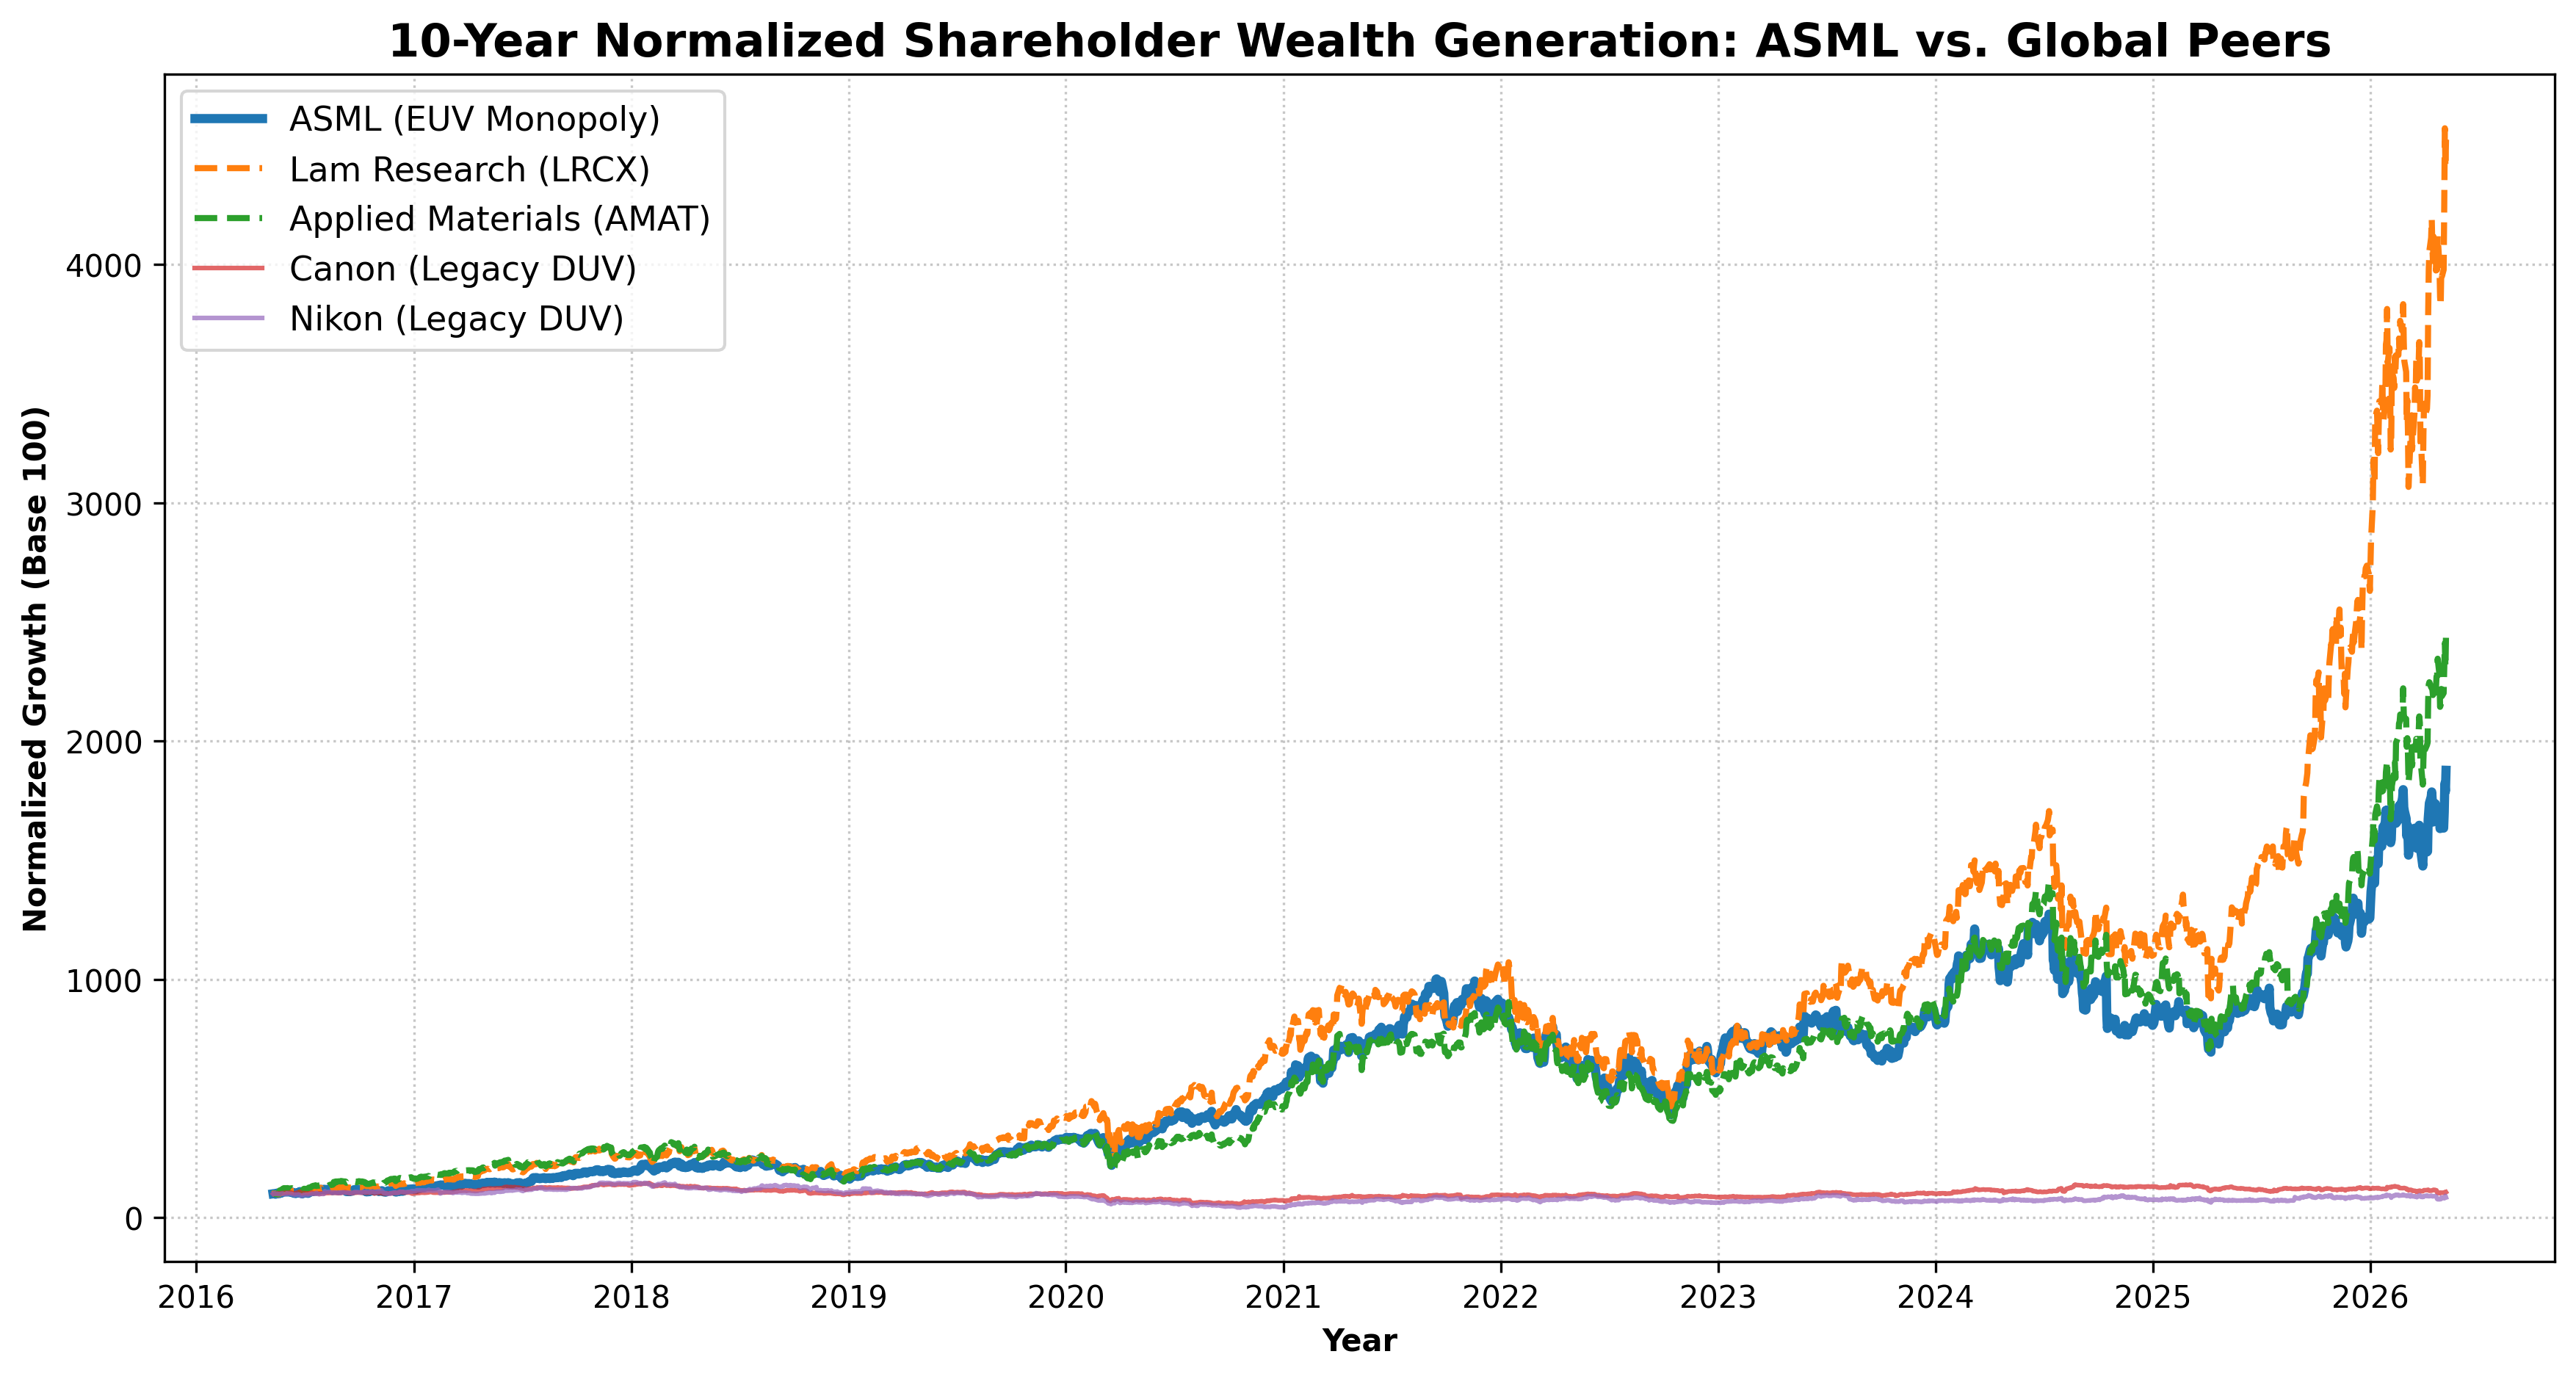
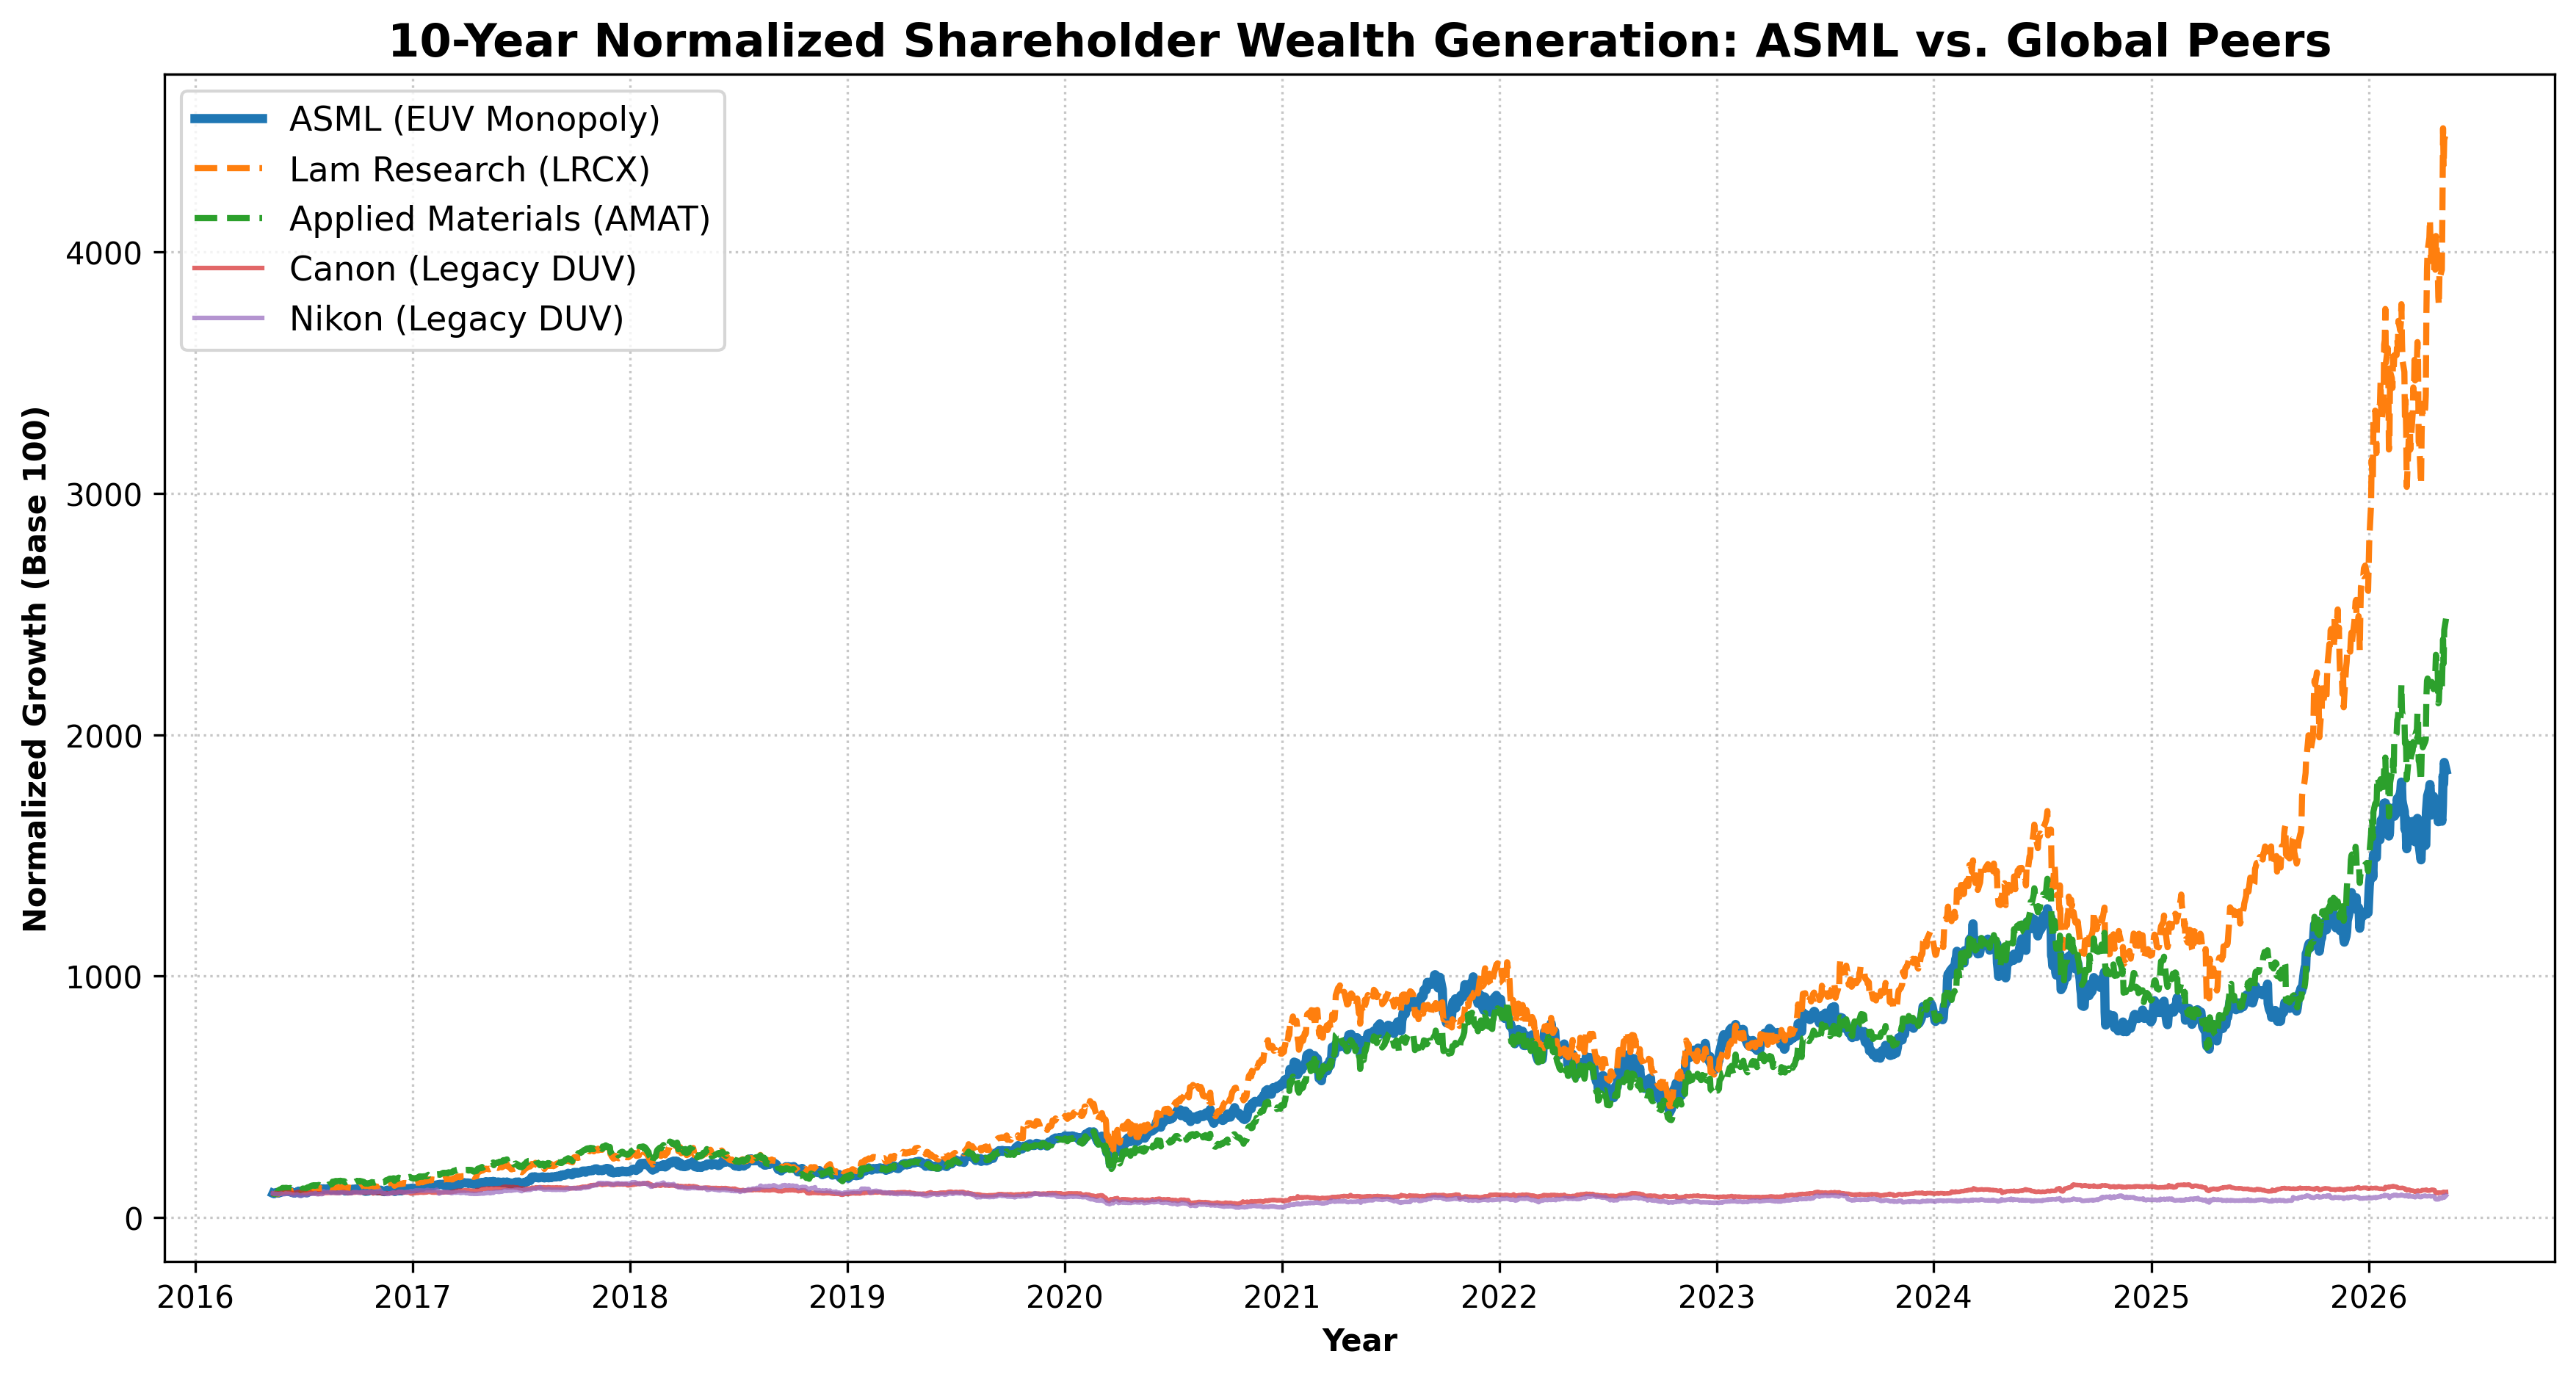
adding final changes

diff --git a/09_competitor_analysis.py b/09_competitor_analysis.py
@@ -45,11 +45,14 @@ print(f"Success! Competitor Growth graph saved to {save_path_1}")
 labels = ['ASML (Netherlands)', 'Nikon (Japan)', 'Canon (Japan)', 'Others']
 sizes = [82.5, 10.2, 6.1, 1.2]
 colors = ['#1f77b4', '#d62728', '#ff7f0e', '#7f7f7f']
-explode = (0.05, 0, 0, 0)  # slightly explode the ASML slice
 
 plt.figure(figsize=(9, 9))
-plt.pie(sizes, explode=explode, labels=labels, colors=colors, autopct='%1.1f%%',
-        shadow=True, startangle=140, textprops={'fontsize': 12, 'fontweight': 'bold'})
+
+# FIX: Removed 'explode', changed 'shadow' to False, and added a white border (wedgeprops)
+plt.pie(sizes, labels=labels, colors=colors, autopct='%1.1f%%',
+        shadow=False, startangle=140,
+        wedgeprops={'edgecolor': 'white', 'linewidth': 2},
+        textprops={'fontsize': 12, 'fontweight': 'bold'})
 
 # Draw the center circle to turn the pie chart into a professional Donut Chart
 centre_circle = plt.Circle((0,0),0.70,fc='white')
@@ -58,6 +61,7 @@ fig.gca().add_artist(centre_circle)
 
 plt.title('Global Advanced Lithography Market Share (2024)', fontweight='bold', fontsize=16)
 
+import os
 save_path_2 = os.path.join("visualizations", "10_Market_Share_Donut.png")
 plt.savefig(save_path_2, dpi=300, bbox_inches='tight')
 plt.close()